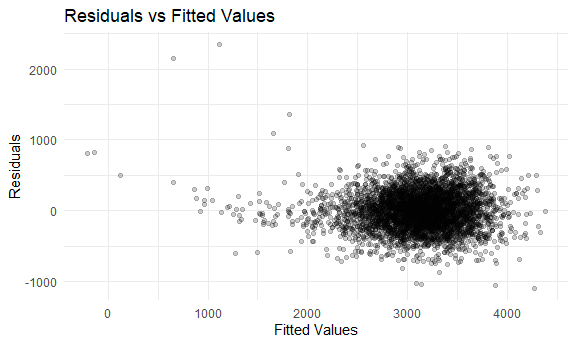
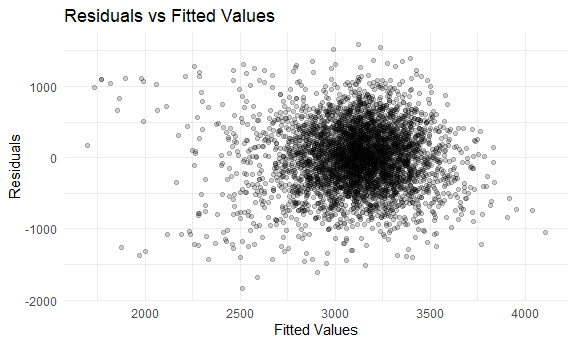
Modified the code for problem 3 of the hw within the .Rmd and .md files.  Also, added a .png file.  Also, modified three .png files.

diff --git a/p8105_hw6_jdv2118.md b/p8105_hw6_jdv2118.md
@@ -6,24 +6,9 @@ Justin Vargas
 
 ``` r
 library(tidyverse)
-```
 
-    ## ── Attaching packages ─────────────────────────────────────── tidyverse 1.3.2 ──
-    ## ✔ ggplot2 3.3.6      ✔ purrr   0.3.4 
-    ## ✔ tibble  3.1.8      ✔ dplyr   1.0.10
-    ## ✔ tidyr   1.2.1      ✔ stringr 1.4.1 
-    ## ✔ readr   2.1.2      ✔ forcats 0.5.2 
-    ## ── Conflicts ────────────────────────────────────────── tidyverse_conflicts() ──
-    ## ✖ dplyr::filter() masks stats::filter()
-    ## ✖ dplyr::lag()    masks stats::lag()
-
-``` r
 library(viridis)
-```
 
-    ## Loading required package: viridisLite
-
-``` r
 library(modelr)
 
 knitr::opts_chunk$set(
@@ -129,6 +114,8 @@ even in tough cases.
 
 # Problem 2
 
+## Cleaning and Wrangling Data
+
 ``` r
 homicide_data = 
   read_csv("data/homicide-data.csv") %>% 
@@ -148,18 +135,23 @@ homicide_data =
 victim_race %in% c("White", "Black"),
 victim_sex != "Unknown") %>% 
   select(city_state, result, victim_age, victim_race, victim_sex)
+
+head(homicide_data)
 ```
 
-    ## Rows: 52179 Columns: 12
-    ## ── Column specification ────────────────────────────────────────────────────────
-    ## Delimiter: ","
-    ## chr (9): uid, victim_last, victim_first, victim_race, victim_age, victim_sex...
-    ## dbl (3): reported_date, lat, lon
-    ## 
-    ## ℹ Use `spec()` to retrieve the full column specification for this data.
-    ## ℹ Specify the column types or set `show_col_types = FALSE` to quiet this message.
+    ## # A tibble: 6 × 5
+    ##   city_state      result victim_age victim_race victim_sex
+    ##   <chr>            <dbl>      <dbl> <chr>       <chr>     
+    ## 1 Albuquerque, NM      0         15 White       Female    
+    ## 2 Albuquerque, NM      0         72 White       Female    
+    ## 3 Albuquerque, NM      0         91 White       Female    
+    ## 4 Albuquerque, NM      0         56 White       Male      
+    ## 5 Albuquerque, NM      0         NA White       Male      
+    ## 6 Albuquerque, NM      1         43 White       Female
 
-    ## Warning in mask$eval_all_mutate(quo): NAs introduced by coercion
+The code above is used to clean and wrangle the data.
+
+## Fitting Logistic Regression For Baltimore, MD
 
 ``` r
 baltimore_glm =
@@ -171,20 +163,26 @@ glm(result ~ victim_age + victim_sex + victim_race,
     family = binomial()) %>% 
   broom::tidy() %>% 
   mutate(
-    OR = exp(estimate),
+    or = exp(estimate),
     ci_lower = exp(estimate - 1.96 * std.error),
     ci_upper = exp(estimate + 1.96 * std.error)
   ) %>% 
-  select(term, OR, starts_with("ci")) %>% 
+  select(term, or, starts_with("ci")) %>% 
   knitr::kable(digits = 3)
 ```
 
-| term             |    OR | ci_lower | ci_upper |
+| term             |    or | ci_lower | ci_upper |
 |:-----------------|------:|---------:|---------:|
 | (Intercept)      | 1.363 |    0.975 |    1.907 |
 | victim_age       | 0.993 |    0.987 |    1.000 |
 | victim_sexMale   | 0.426 |    0.325 |    0.558 |
 | victim_raceWhite | 2.320 |    1.648 |    3.268 |
+
+The code above is used to fit a logistic regression with resolved vs
+unresolved as the outcome and victim age, sex and race as predictors for
+the city of Baltimore, MD.
+
+## Fitting Logistic Regression For Each City
 
 ``` r
 cities_glm = 
@@ -223,6 +221,11 @@ cities_glm
     ## 10 Cincinnati, OH  victim_sexMale 0.400    0.236    0.677
     ## # … with 37 more rows
 
+The code above is used to fit the same logistic regression for each city
+in the dataset.
+
+## Plot of ORs and CIs for Each City
+
 ``` r
 cities_plot =
   cities_glm %>% 
@@ -242,7 +245,15 @@ cities_plot
 
 <img src="p8105_hw6_jdv2118_files/figure-gfm/unnamed-chunk-7-1.png" width="90%" />
 
+Based on the plot, New York, NY, has the lowest odds ratio, while
+Albuquerque, NM, has the highest odds ratio. It is important to note
+that Albuquerque, NM, appears to have the widest confidence interval,
+while Chicago, IL, has the smallest confidence interval. Ultimately,
+there is overlap among the confidence intervals for the various cities.
+
 # Problem 3
+
+## Loading and Cleaning The Data
 
 ``` r
 birthweight_data =
@@ -257,17 +268,7 @@ birthweight_data =
     mrace = as.factor(mrace),
     mrace = recode(mrace, "1" = "White", "2" = "Black", "3" = "Asian", "4" = "Puerto Rican", "8" = "Other")
   )
-```
 
-    ## Rows: 4342 Columns: 20
-    ## ── Column specification ────────────────────────────────────────────────────────
-    ## Delimiter: ","
-    ## dbl (20): babysex, bhead, blength, bwt, delwt, fincome, frace, gaweeks, malf...
-    ## 
-    ## ℹ Use `spec()` to retrieve the full column specification for this data.
-    ## ℹ Specify the column types or set `show_col_types = FALSE` to quiet this message.
-
-``` r
 head(birthweight_data)
 ```
 
@@ -290,37 +291,39 @@ sum(is.na(birthweight_data))
 
     ## [1] 0
 
-``` r
-birthweight_full_model = lm(bwt ~ ., data = birthweight_data)
+The code above is used to load and clean the data. There is no missing
+data.
 
-birthweight_full_model
+## My Proposed Model
+
+``` r
+birthweight_model = lm(bwt ~ babysex + fincome + gaweeks + malform + smoken + wtgain, data = birthweight_data)
+
+birthweight_model
 ```
 
     ## 
     ## Call:
-    ## lm(formula = bwt ~ ., data = birthweight_data)
+    ## lm(formula = bwt ~ babysex + fincome + gaweeks + malform + smoken + 
+    ##     wtgain, data = birthweight_data)
     ## 
     ## Coefficients:
-    ##       (Intercept)      babysexFemale              bhead            blength  
-    ##        -6265.3914            28.7073           130.7781            74.9536  
-    ##             delwt            fincome         fraceBlack         fraceAsian  
-    ##            4.1007             0.2898            14.3313            21.2361  
-    ## fracePuerto Rican         fraceOther            gaweeks     malformPresent  
-    ##          -46.9962             4.2969            11.5494             9.7650  
-    ##          menarche            mheight             momage         mraceBlack  
-    ##           -3.5508             9.7874             0.7593          -151.4354  
-    ##        mraceAsian  mracePuerto Rican             parity            pnumlbw  
-    ##          -91.3866           -56.4787            95.5411                 NA  
-    ##           pnumsga              ppbmi               ppwt             smoken  
-    ##                NA             4.3538            -3.4716            -4.8544  
-    ##            wtgain  
-    ##                NA
+    ##    (Intercept)   babysexFemale         fincome         gaweeks  malformPresent  
+    ##       474.8052        -90.4794          2.4426         61.0335          0.7492  
+    ##         smoken          wtgain  
+    ##        -7.3697          9.0620
+
+My proposed model consists of the following variables: babysex, fincome,
+gaweeks, malform, smoke, and wtgain. I hypothesize that these variables
+underly birthweight, hence why they were chosen for my proposed model.
+
+## Plot of My Proposed Model
 
 ``` r
 birthweight_plot =
 birthweight_data %>% 
-  modelr::add_predictions(., birthweight_full_model) %>% 
-  modelr::add_residuals(., birthweight_full_model) %>% 
+  modelr::add_predictions(birthweight_model) %>% 
+  modelr::add_residuals(birthweight_model) %>% 
   ggplot(aes(x = pred, y = resid)) +
   geom_point(alpha = .2) +
   labs(
@@ -328,16 +331,81 @@ birthweight_data %>%
     y = "Residuals",
     title = "Residuals vs Fitted Values"
   )
-```
 
-    ## Warning in predict.lm(model, data): prediction from a rank-deficient fit may be
-    ## misleading
-
-    ## Warning in predict.lm(model, data): prediction from a rank-deficient fit may be
-    ## misleading
-
-``` r
 birthweight_plot
 ```
 
 <img src="p8105_hw6_jdv2118_files/figure-gfm/unnamed-chunk-10-1.png" width="90%" />
+
+The code above is used to create a plot of model residuals against
+fitted values for my proposed model.
+
+``` r
+set.seed(1)
+
+cross_validation = 
+  crossv_mc(birthweight_data, 100) %>% 
+  mutate(
+    model_1 = map(.x = train, ~lm(bwt ~ blength + gaweeks, data = .x)),
+    model_2 = map(.x = train, ~lm(bwt ~ bhead * blength * babysex, data = .x)),
+    my_model = map(.x = train, ~lm(bwt ~ babysex + fincome + gaweeks + malform + smoken + wtgain, data = .x))
+  ) %>% 
+  mutate(
+    rmse_model_1 = map2_dbl(.x = model_1, .y = test, ~rmse(model = .x, data = .y)),
+    rmse_model_2 = map2_dbl(.x = model_2, .y = test, ~rmse(model = .x, data = .y)),
+    rmse_my_model = map2_dbl(.x = my_model, .y = test, ~rmse(model = .x, data = .y))
+  )
+
+cross_validation
+```
+
+    ## # A tibble: 100 × 9
+    ##    train                   test                  .id   model_1 model_2 my_model
+    ##    <list>                  <list>                <chr> <list>  <list>  <list>  
+    ##  1 <resample [3,473 x 20]> <resample [869 x 20]> 001   <lm>    <lm>    <lm>    
+    ##  2 <resample [3,473 x 20]> <resample [869 x 20]> 002   <lm>    <lm>    <lm>    
+    ##  3 <resample [3,473 x 20]> <resample [869 x 20]> 003   <lm>    <lm>    <lm>    
+    ##  4 <resample [3,473 x 20]> <resample [869 x 20]> 004   <lm>    <lm>    <lm>    
+    ##  5 <resample [3,473 x 20]> <resample [869 x 20]> 005   <lm>    <lm>    <lm>    
+    ##  6 <resample [3,473 x 20]> <resample [869 x 20]> 006   <lm>    <lm>    <lm>    
+    ##  7 <resample [3,473 x 20]> <resample [869 x 20]> 007   <lm>    <lm>    <lm>    
+    ##  8 <resample [3,473 x 20]> <resample [869 x 20]> 008   <lm>    <lm>    <lm>    
+    ##  9 <resample [3,473 x 20]> <resample [869 x 20]> 009   <lm>    <lm>    <lm>    
+    ## 10 <resample [3,473 x 20]> <resample [869 x 20]> 010   <lm>    <lm>    <lm>    
+    ## # … with 90 more rows, and 3 more variables: rmse_model_1 <dbl>,
+    ## #   rmse_model_2 <dbl>, rmse_my_model <dbl>
+
+``` r
+cross_validation_plot =
+ cross_validation %>% 
+  select(starts_with("rmse")) %>% 
+  pivot_longer(
+    everything(),
+    names_to = "model",
+    values_to = "rmse",
+    names_prefix = "rmse_"
+  ) %>% 
+  mutate(
+    model = recode(model, "model_1" = "Model 1", "model_2" = "Model 2", "my_model" = "My Model")
+  ) %>% 
+  ggplot(aes(x = model, y = rmse)) +
+  geom_violin() +
+  labs(
+    x = "Model",
+    y = "RMSE",
+    title = "RMSE by Model"
+  )
+
+cross_validation_plot
+```
+
+<img src="p8105_hw6_jdv2118_files/figure-gfm/unnamed-chunk-11-1.png" width="90%" />
+
+Based on the plot above, Model 2, which consists of the head
+circumference, length, sex, and all interactions, had the lowest RMSE of
+all of the models including my proposed model. This indicates that it is
+the best model of all of the other models. Model 1, which consists of
+length at birth and gestational age, has a RMSE that is greater than
+that of Model 2, but less than that of my proposed model. This indicates
+that Model 2 is the second best model. My proposed model has the highest
+RMSE, which indicates that it is the worst model of all the models.
